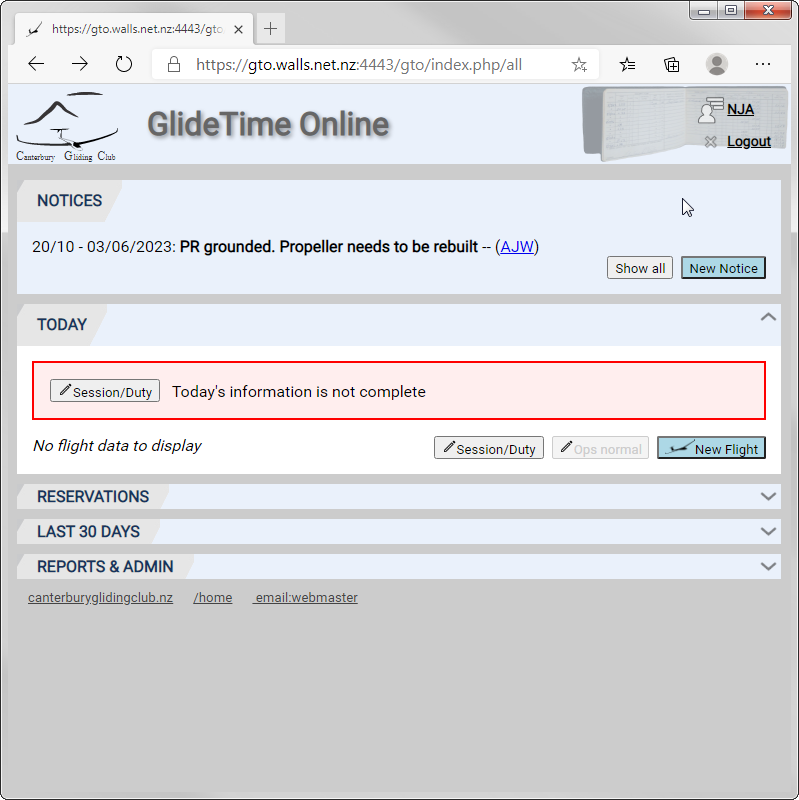
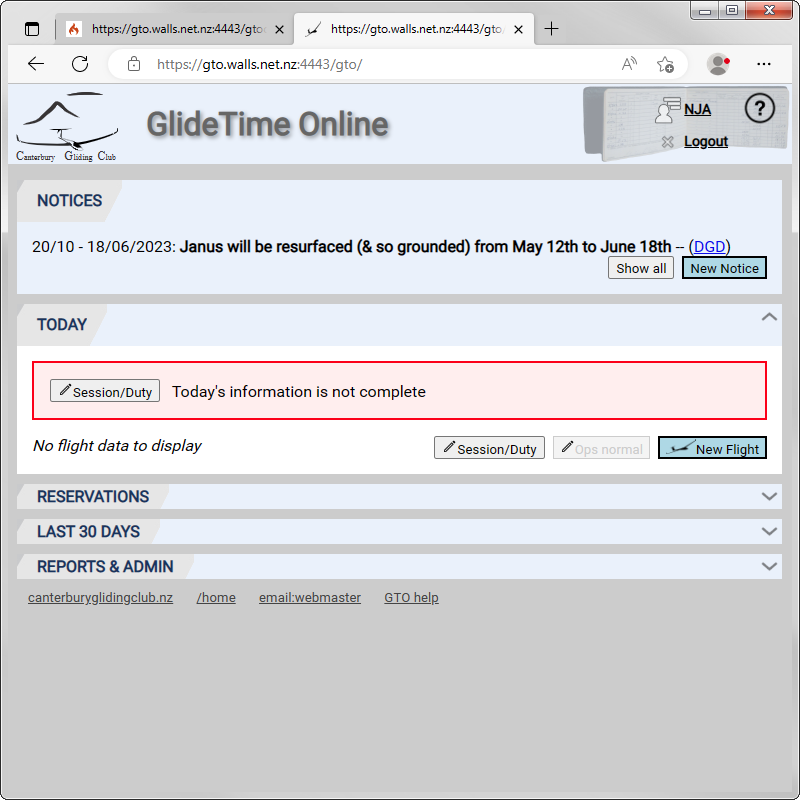
Udate pages overview with links

diff --git a/docs/Overview.md b/docs/Overview.md
@@ -4,9 +4,9 @@ This is the Main or Home screen of GTO that is displayed once you log in:
 
 ![GTO Member is Logged in](./assets/images/GTO_Member_LoggedIn.png){:.screenshot}
 
-The **NOTICES** panel is always displayed on the main screen and after logging in the **TODAY** panel is displayed (expanded).  Each of the **TODAY**, **RESERVATION**, **LAST 30 DAYS** and **REPORTS & ADMIN** sections may be expanded or collapsed by clicking on the arrow on the right hand end of their title bar.
+The **[NOTICES](Notices.md)** panel is always displayed on the main screen.  Each of the **[TODAY](Today.md)**, **[RESERVATION](Reservations.md)**, **[LAST 30 DAYS](Last_30_days.md)** and **[REPORTS & ADMIN](Reports_Admin.md)** sections may be expanded or collapsed by clicking on the arrow on the right hand end of their title bar.
 
-The footer of each page has links to the CGC homepage, the Main (Home) screen of GTO, an email link to contact Alan, the GTO webmaster, and a link to the GTO help and documentation.
+The footer of each page has links to the [CGC homepage](https://canterburyglidingclub.nz/), the [Main (Home) screen of GTO](https://canterburyglidingclub.nz/gto), an email link to contact Alan, the GTO webmaster, and a link to the [GTO help and documentation](https://gto.walls.net.nz:4443/gtodocs/).
 
 ## Click header to go to home
 
